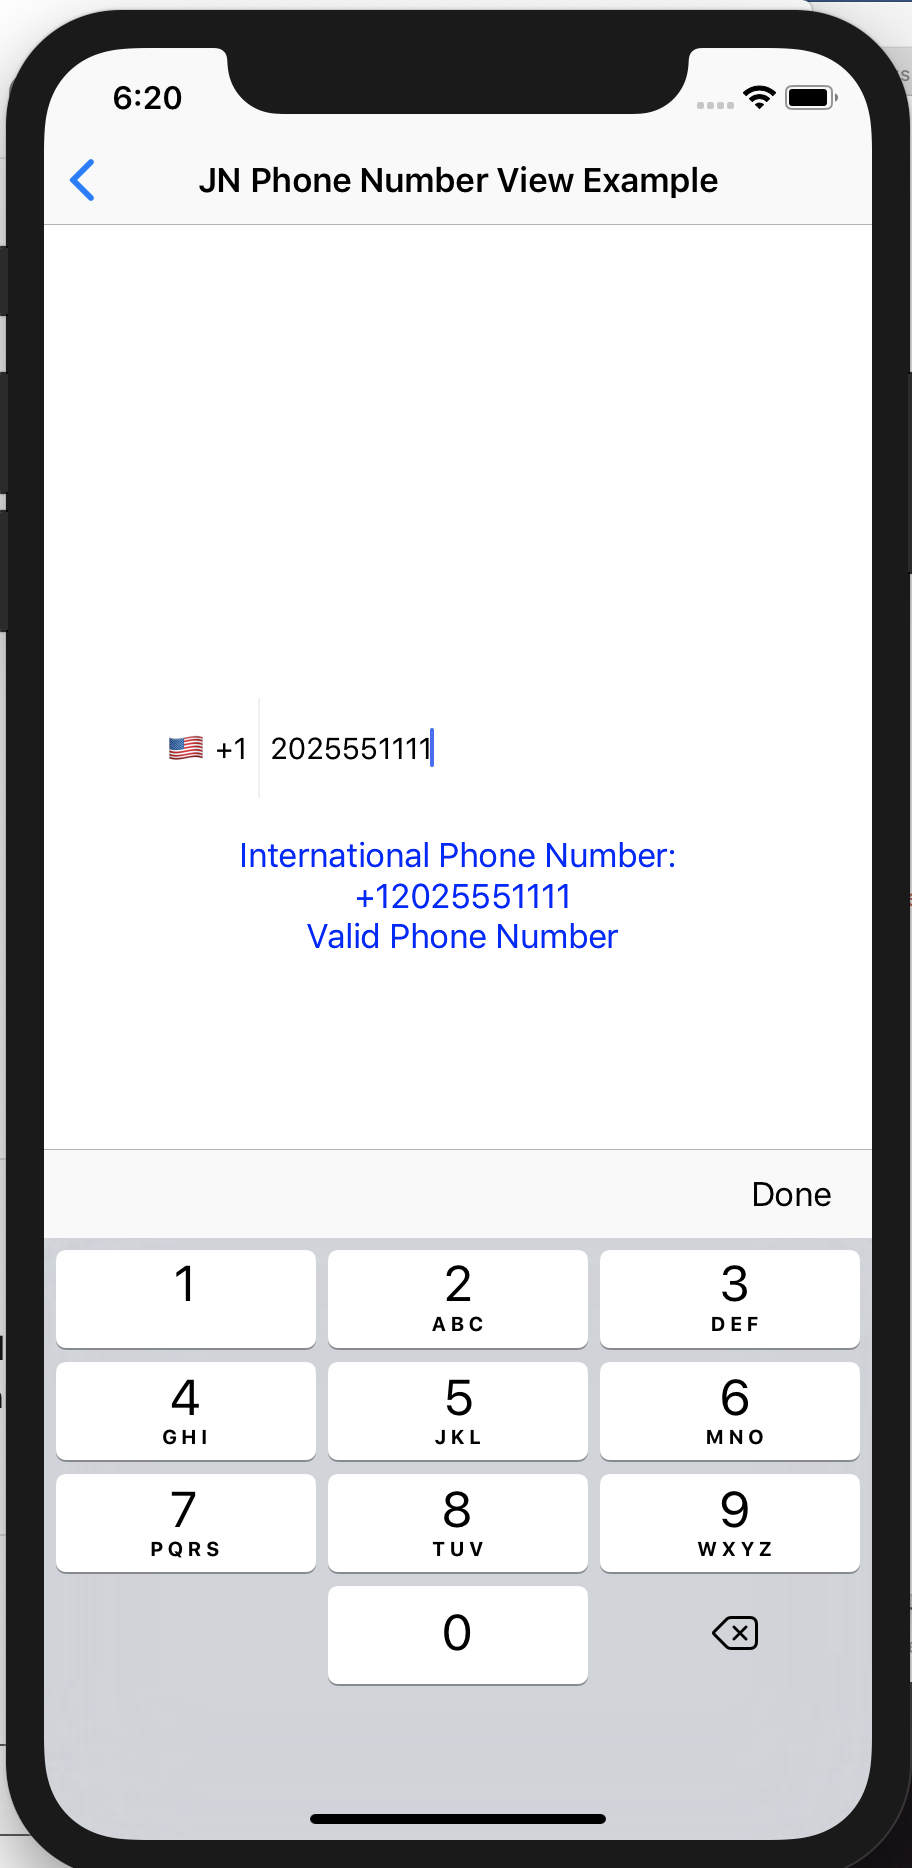
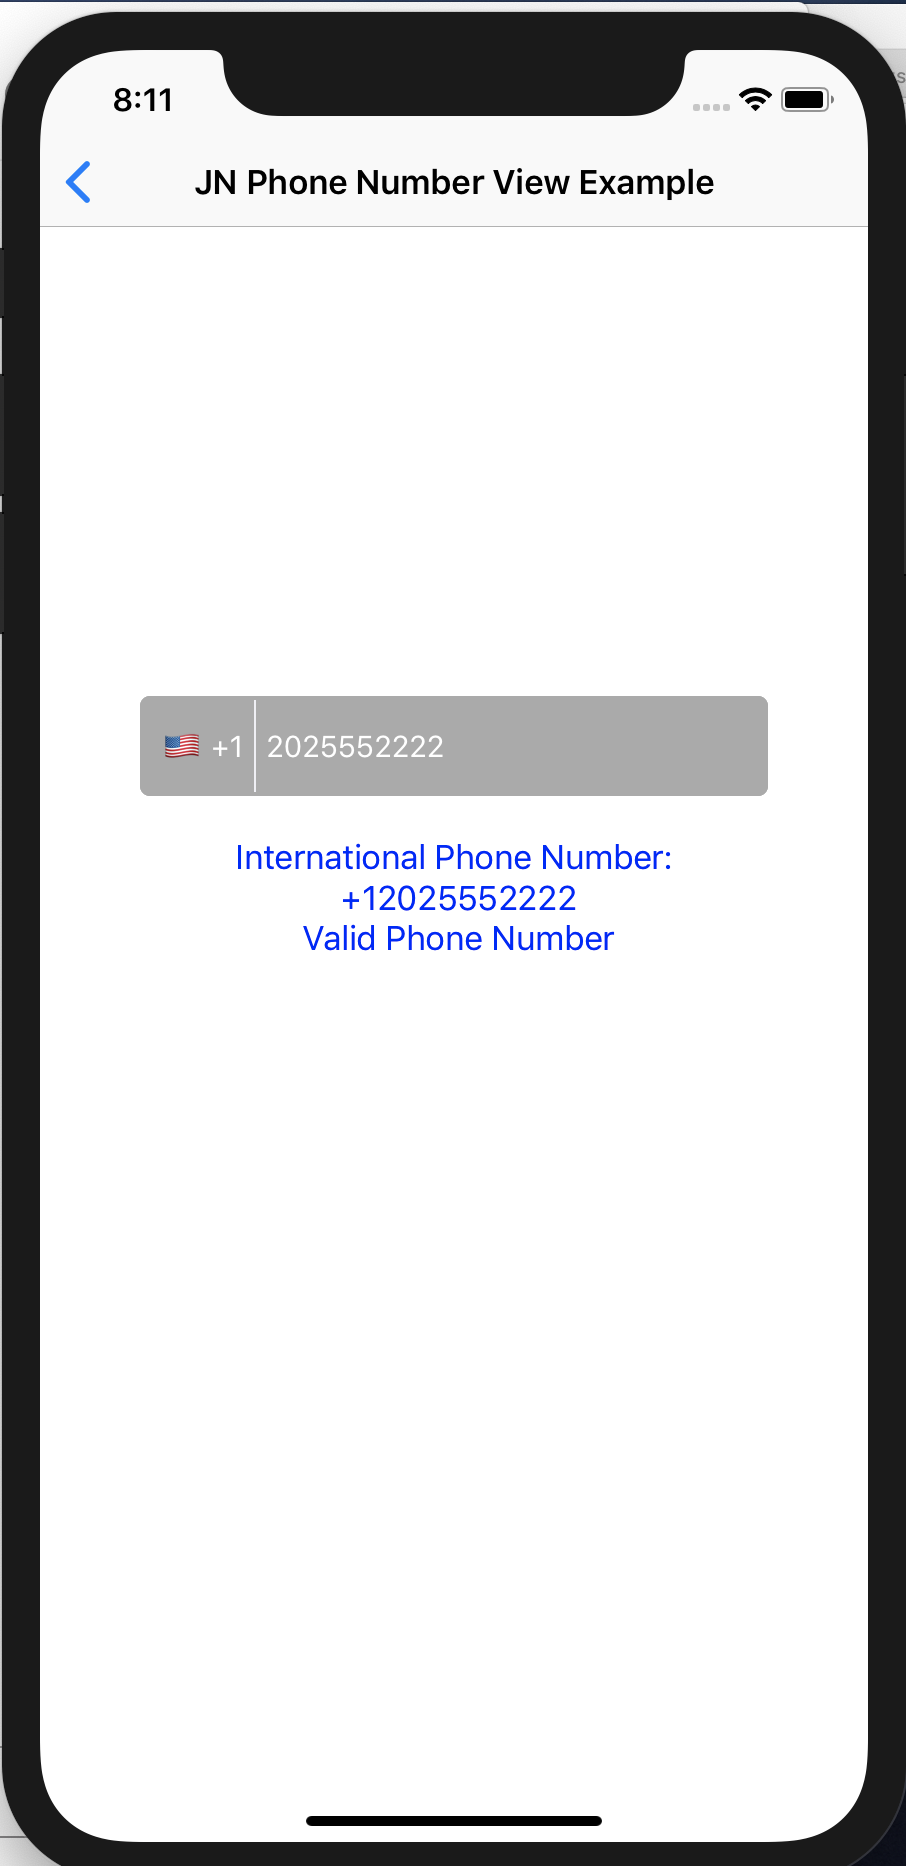
- Update Example

diff --git a/Example/JNPhoneNumberView/JNPhoneNumberViewExample.swift b/Example/JNPhoneNumberView/JNPhoneNumberViewExample.swift
@@ -29,8 +29,12 @@ class JNPhoneNumberViewExample: UIViewController {
         self.phoneNumberView.delegate = self
         self.phoneNumberView.setDefaultCountryCode("US")
         self.phoneNumberView.backgroundColor = UIColor.gray
-        self.phoneNumberView.setViewConfiguration(JNPhoneNumberViewConfiguration())
+        self.phoneNumberView.setViewConfiguration(self.getConfigration())
         self.phoneNumberView.setPhoneNumber("")
+        self.phoneNumberView.layer.cornerRadius = 5.0
+        self.phoneNumberView.layer.borderColor = UIColor.lightGray.cgColor
+        self.phoneNumberView.layer.borderWidth = 1.0
+        self.phoneNumberView.backgroundColor = UIColor.lightGray
     }
     
 }
@@ -65,11 +69,8 @@ extension JNPhoneNumberViewExample: JNPhoneNumberViewDelegate {
      */
     func phoneNumberView(didChangeText text: String) {
         self.phoneNumberLabel.text = "International Phone Number: \n \(text)"
-        
-        let configration =  JNPhoneNumberViewConfiguration()
-        configration.phoneNumberTitleColor = UIColor.black
-        
-        self.phoneNumberView.setViewConfiguration(configration)
+    
+        self.phoneNumberView.setViewConfiguration(self.getConfigration())
     }
     
     /**
@@ -94,6 +95,14 @@ extension JNPhoneNumberViewExample: JNPhoneNumberViewDelegate {
         self.phoneNumberLabel.text = "International Phone Number: \n \(self.phoneNumberView.getPhoneNumber()) \n \(validationMessage)"
         
         self.phoneNumberLabel.textColor = isValidPhoneNumber ? UIColor.blue : UIColor.red
+    }
+    
+    private func getConfigration() -> JNPhoneNumberViewConfiguration {
+        let configrartion = JNPhoneNumberViewConfiguration()
+        configrartion.phoneNumberTitleColor = UIColor.white
+        configrartion.countryDialCodeTitleColor = UIColor.white
+        
+        return configrartion
     }
 }
 

diff --git a/JNPhoneNumberView/Classes/JNPhoneNumberView.swift b/JNPhoneNumberView/Classes/JNPhoneNumberView.swift
@@ -37,9 +37,6 @@ public class JNPhoneNumberView: UIView, UITextFieldDelegate {
             self.setupTextField()
             self.setupCountyCodeButton()
             self.leftToolbarBarButtonItem.title = self.configuration.leftToolBarBarButtonItemTitle
-            
-            // Set background color
-            self.backgroundColor = self.configuration.viewBackgroundColor
         }
     }
     
@@ -222,11 +219,19 @@ public class JNPhoneNumberView: UIView, UITextFieldDelegate {
         // Create nib
         let nib = UINib(nibName: "JNPhoneNumberView", bundle: Bundle(for: JNPhoneNumberView.self))
         
-        // container view
-        let containerView = nib.instantiate(withOwner: self, options: nil).first as! UIView
-        
-        // Add container view as subview
-        self.addSubview(containerView)
+        // View
+        if let view = nib.instantiate(withOwner: self, options: nil).first as? UIView {
+            
+            // Add subview
+            self.addSubview(view)
+            
+            view.translatesAutoresizingMaskIntoConstraints = false
+            
+            view.topAnchor.constraint(equalTo: self.topAnchor).isActive = true
+            view.bottomAnchor.constraint(equalTo: self.bottomAnchor).isActive = true
+            view.leadingAnchor.constraint(equalTo: self.leadingAnchor).isActive = true
+            view.trailingAnchor.constraint(equalTo: self.trailingAnchor).isActive = true
+        }
     }
     
     // MARK: - Toolbar and its action

diff --git a/JNPhoneNumberView/Classes/Entites/JNPhoneNumberViewConfiguration/JNPhoneNumberViewConfiguration.swift b/JNPhoneNumberView/Classes/Entites/JNPhoneNumberViewConfiguration/JNPhoneNumberViewConfiguration.swift
@@ -29,9 +29,6 @@ import UIKit
     /// left ToolBar BarButtonItem Title
     @objc public var leftToolBarBarButtonItemTitle: String
     
-    /// View background color
-    @objc public var viewBackgroundColor: UIColor
-    
     /**
      Initiailzer
      */
@@ -44,6 +41,5 @@ import UIKit
         self.phoneNumberTitleColor = UIColor.black
         self.leftToolBarBarButtonItemTitle = "Done"
         self.phoneNumberPlaceHolder = ""
-        self.viewBackgroundColor = UIColor.clear
     }
 }
